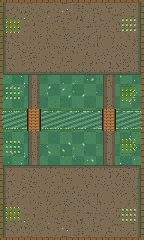
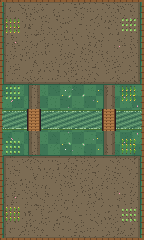
HUD mais enxuto e campo com folga entre módulos
- Barra de baixo: só Loja, Cartas, Batalha e Criador
- Troféus, Clã, Sítio e Ranking viram botões pequenos na Batalha; sub-abas com "← Voltar"
- Batalha: sem o painel do baralho (só um atalho) e missões num botão
- Toda janela tem ✕ fixo no topo e rola quando passa da tela (histórico etc.)
- Módulos da frente sobem (190), de trás descem (450), base no meio (320)

Claude-Session: https://claude.ai/code/session_01F2c9wwKpd4XWAaAeM55Dzi

diff --git a/ci/tools/arte/arena.py b/ci/tools/arte/arena.py
@@ -50,7 +50,7 @@ def build(seed=7):
     # 3 colunas x 3 fileiras, tudo simétrico. As colunas dos lados vão quase até a cerca
     # (mundo ±225); as pontes continuam em ±150 e o caminho desce reto delas até o pátio.
     COLS = (CX - MOD_X, CX, CX + MOD_X)
-    ROWS = (CY + 57.5, CY + 82.5, CY + 107.5)          # mundo: 230, 330, 430 a partir do rio
+    ROWS = (CY + 47.5, CY + 80, CY + 112.5)            # mundo: 190, 320, 450 a partir do rio
 
     def dirt(x, y, edge=False):
         c = DIRT[1] if edge else DIRT[0]
